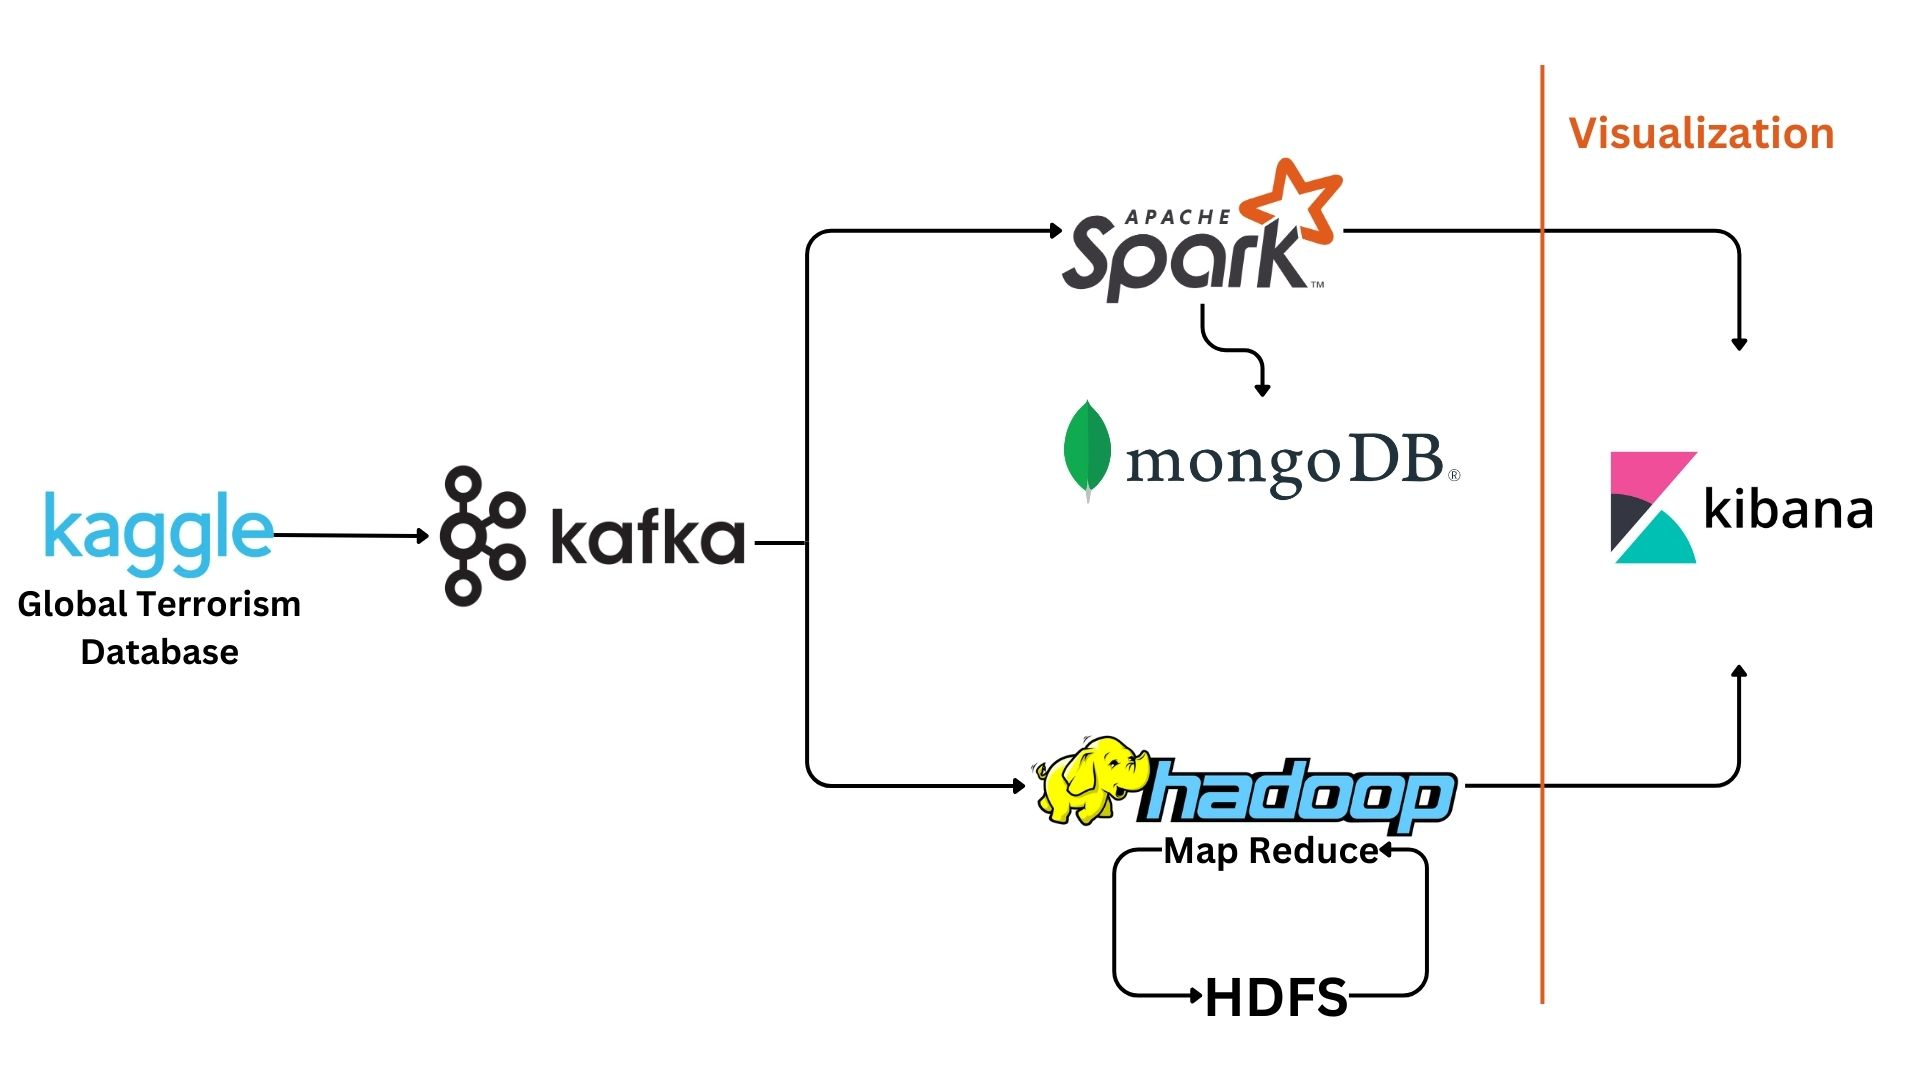
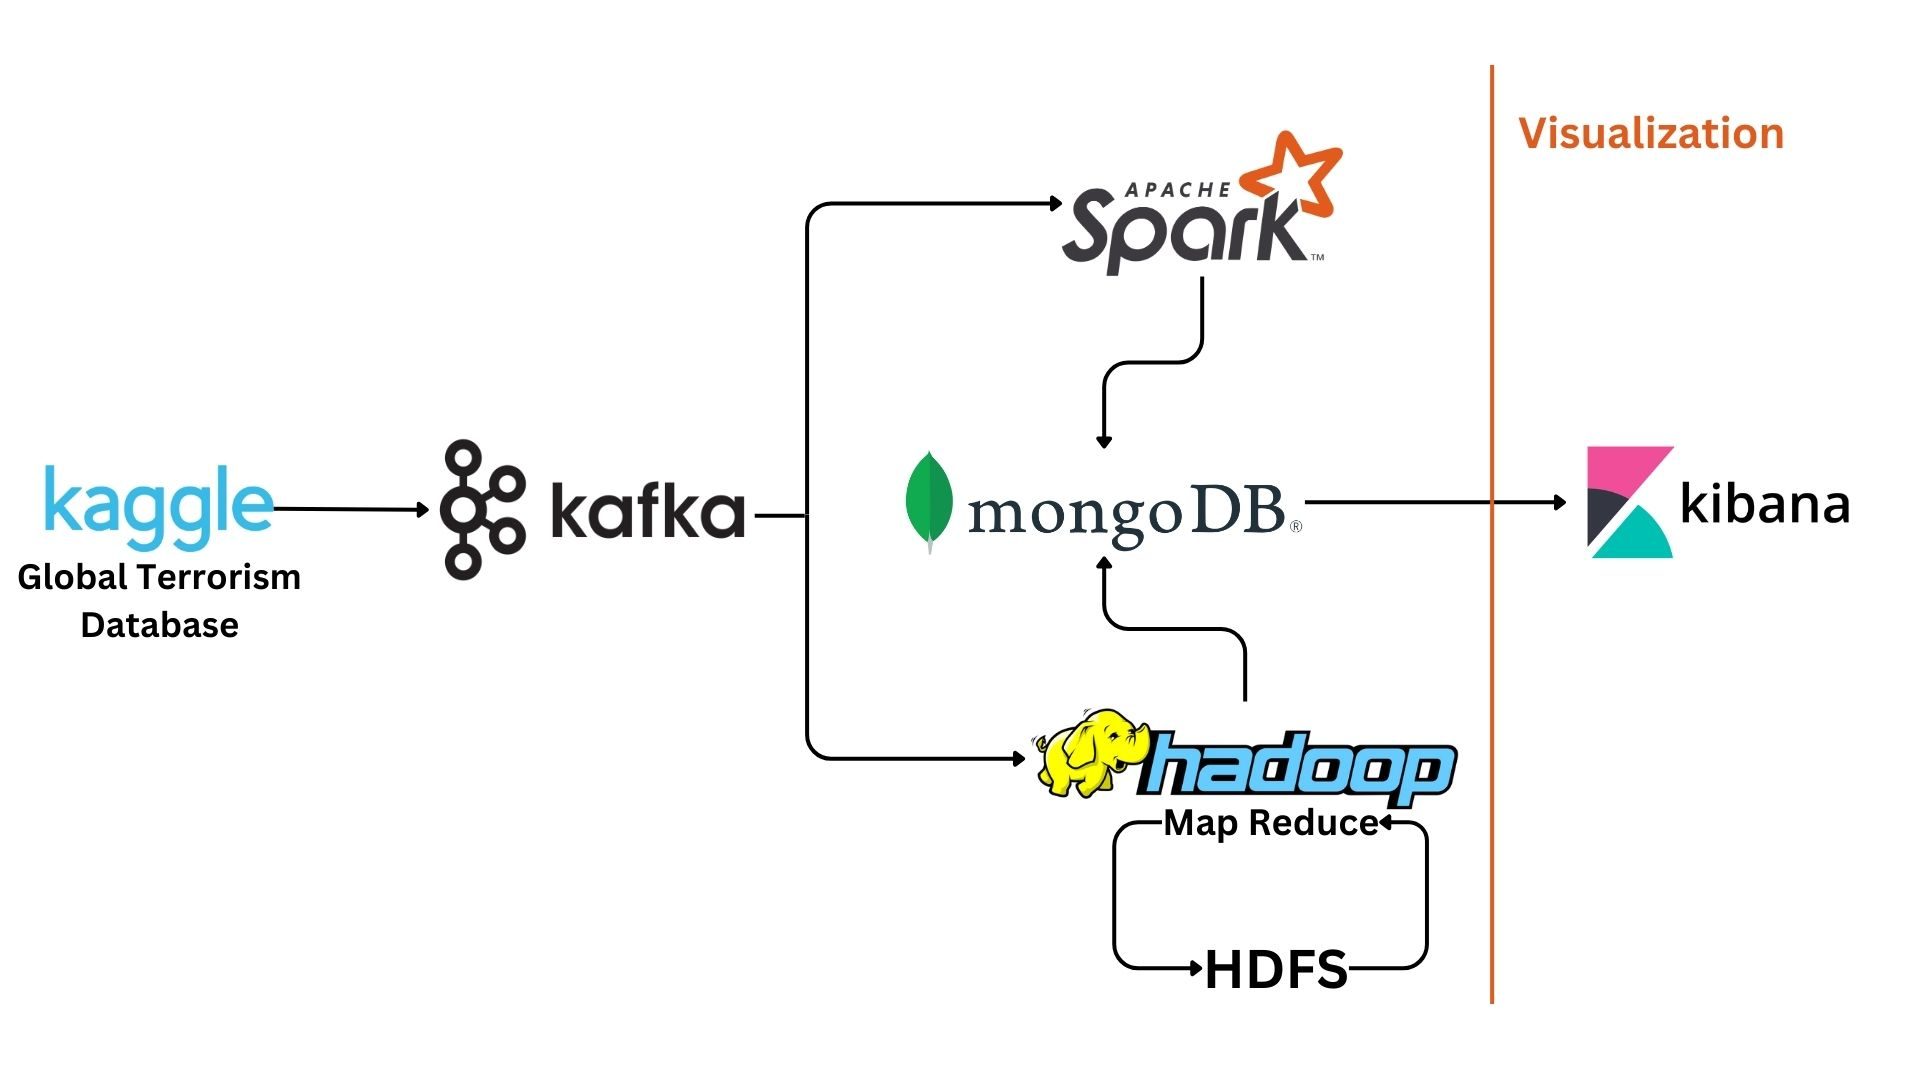
change architecture

diff --git a/README.md b/README.md
@@ -21,7 +21,7 @@ The pipeline includes batch and stream processing that's why it's based on the L
  
 ### 3-Data Storage
  - Streaming : MongoDB
- - Batch : HDFS
+ - Batch : HDFS & MongoDB
 
 ### 4- Data Visualization
  - Dashboarding : Kibana
